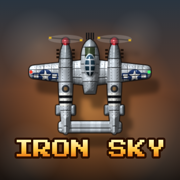
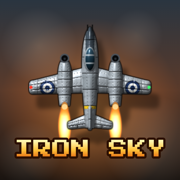
Deploy OPERATION: IRON SKY 2026-11-19

Changed region(s): [[0.1389, 0.1389, 0.8889, 0.7778], [0.5, 0.7778, 0.5833, 0.8333]]

diff --git a/game.js b/game.js
@@ -291,31 +291,55 @@ function mechK(h) {
 function buildSprites() {
   // ── 플레이어 기체 (실사풍 렌더)
   const air = (w, h, o, ang, fn = fighter) => { const K = kit(w, h); fn(K, o); return ang === 'spin' ? spins(K, 16) : finish(K, ang || 0); };
-  {
-    const K = kit(68, 58), o = { c: '#b3bbc2', L: 46, S: 60, spec: .85, var: .36, seed: 2 };
-    wingK(K, o, 60, -5, 13, 3, .5, { rd: 2.6, ribs: 8, lights: 1, paint: g => { for (const s of [-1, 1]) { const x = s * 22, y = -3.2; g.fillStyle = '#e8e8e2'; g.fillRect(x - 6, y - 1.2, 12, 2.4); g.strokeStyle = '#1b315f'; g.lineWidth = .6; g.strokeRect(x - 6, y - 1.2, 12, 2.4); disc(g, x, y, 3.4, '#1b315f'); star5(g, x, y, 3, '#e8e8e2'); } } });
-    part(K, g => rr(g, -15.5, 19, 31, 5.6, 1.6), 1.3, 0, 1.4, o.spec, g => { g.fillStyle = o.c; g.fillRect(-99, -99, 198, 198); const R = mulberry(5); for (let i = 0; i < 6; i++) ptone(g, R, -15.5 + i * 5.2, 0, 5.2, 40, .3); }, v => { v.beginPath(); v.moveTo(-16, 22.5); v.lineTo(16, 22.5); v.stroke(); });
-    for (const s of [-1, 1]) at(K, s * 12, 1.5, () => {
-      bodyK(K, o, 44, 3.9, { nose: '#98a1a8', cowl: .2, inline: 1, tail: .45, bands: [['#e4e4de', .58, .03], ['#16171a', .61, .03], ['#e4e4de', .64, .03], ['#16171a', .67, .03], ['#e4e4de', .7, .03]] });
-      dome(K, 0, 1.5, 1.9, 3.6, 1.2, .6, '#2a2e33', '#7a5c3a');
-      for (const t of [-1, 1]) part(K, g => rr(g, t * 3.7 - 1.1, 9.5, 2.2, 5, .9), 1, .8, 1.8, .6, g => { g.fillStyle = '#8a949c'; g.fillRect(-99, -99, 198, 198); });
-      finK(K, o, 15, 2, 9, '#c2c9cf'); spinnerK(K, Object.assign({}, o, { spin: '#a8202a' }), -21.8, 1.9); over(K, g => propBlur(g, 0, -23, 8.6));
-    });
-    at(K, 0, -8, () => bodyK(K, o, 27, 4.9, { nose: '#98a1a8', cowl: .15, glare: '#39462e', tail: .55, z: 1.2 }));
-    over(K, g => { g.fillStyle = '#121315'; for (const x of [-1.7, -.6, .6, 1.7]) g.fillRect(x - .3, -24.6, .6, 3.4); });
-    canopyK(K, o, -8.5, 3, 5.8, 3, 5); SP.p38 = finish(K);
+  // 현대식 제트기 4종 (A 쌍발 제트 요격기 · B 후퇴익 제트 · C 델타익 요격기 · D 스텔스 다목적기)
+  const jetGlow = (g, x, y, r) => { const q = g.createRadialGradient(x, y, 0, x, y, r * 2.6); q.addColorStop(0, 'rgba(255,250,220,.95)'); q.addColorStop(.35, 'rgba(255,150,40,.7)'); q.addColorStop(1, 'rgba(255,80,20,0)'); g.fillStyle = q; g.beginPath(); g.ellipse(x, y + r * 1.2, r * 1.1, r * 2.6, 0, 0, TAU); g.fill(); disc(g, x, y, r * .75, '#ffd890'); };
+  const coldGlow = (g, x, y, r) => { const q = g.createRadialGradient(x, y, 0, x, y, r * 2.4); q.addColorStop(0, 'rgba(220,240,255,.95)'); q.addColorStop(.4, 'rgba(80,160,255,.6)'); q.addColorStop(1, 'rgba(40,90,255,0)'); g.fillStyle = q; g.beginPath(); g.ellipse(x, y + r, r, r * 2.4, 0, 0, TAU); g.fill(); disc(g, x, y, r * .7, '#bfe4ff'); };
+  const intake = (g, x, y, r) => { disc(g, x, y, r, '#4a5057'); disc(g, x, y, r * .68, '#07080a'); disc(g, x, y + r * .1, r * .25, '#2a2e33'); };
+  { // A. 쌍발 제트 요격기 — 날개 밑 엔진 2기, 은색 무광
+    const K = kit(66, 62), o = { c: '#9ea7ae', L: 50, S: 60, spec: .75, var: .26, seed: 21 };
+    wingK(K, o, 60, 1, 13, 7, .52, { rd: 2.2, ribs: 7, lights: 1, paint: g => { for (const s of [-1, 1]) roundel(g, s * 21, 5.2, 3.6, ['#1b315f', '#e8e8e2', '#1b315f']); } });
+    wingK(K, o, 22, 21, 7, 4, .55, { rd: 1.5, ribs: 2, th: 1.2 });
+    for (const s of [-1, 1]) at(K, s * 12.5, 2, () => bodyK(K, o, 24, 3.6, { tail: .7, nose: '#5a6068', cowl: .1, z: 2.2 }));
+    bodyK(K, o, 50, 4.4, { tail: .45, glare: '#3b4650', bands: [['#d8b020', .78, .03]] });
+    finK(K, o, 14, 1.8, 12, '#8f989f'); canopyK(K, o, -9, 2.8, 6, 2, 5);
+    over(K, g => { for (const s of [-1, 1]) { intake(g, s * 12.5, -9.4, 2.3); jetGlow(g, s * 12.5, 14.5, 1.8); } g.fillStyle = '#111'; for (const x of [-1.2, 1.2]) g.fillRect(x - .3, -26, .6, 3); });
+    SP.p38 = finish(K);
   }
-  SP.spit = air(62, 56, { L: 46, S: 56, c: '#4c5c3c', camo: '#6f5b41', seed: 3, spec: .14, var: .12, bw: 4.8, ell: 1, ch: 17, wy: -4, inline: 1, guns: [.3, .38], mark: ['#1b315f', '#e8e8e2', '#a8202a'], spin: '#c9c3a0', bands: [['#a9b896', .72, .04]], finc: '#8c2a2a', cy: -3, cl: 5.4, cf: 3 });
-  SP.zero = air(62, 54, { L: 44, S: 56, c: '#c4c6b9', spec: .32, var: .14, seed: 4, ch: 15, sw: 1.5, tp: .52, nose: '#15161a', cowl: .17, le: '#d8a818', guns: [.3], mark: ['#e8e8e2', '#a8202a', '#a8202a', '#a8202a', '#a8202a'], spin: '#8a8c88', bands: [['#a8202a', .74, .035]], cl: 6.6, cf: 4, cy: -2.5 });
-  {
-    const K = kit(62, 60), o = { c: '#34503c', camo: '#273d2e', seed: 11, L: 50, S: 56, spec: .2, var: .12 };
-    wingK(K, o, 56, 9, 16, 9, .42, { rd: 2, ribs: 7, lights: 1, le: '#d8a818', paint: g => { for (const s of [-1, 1]) roundel(g, s * 21.5, 14, 3.8, ['#e8e8e2', '#a8202a', '#a8202a', '#a8202a']); } });
-    wingK(K, o, 22, -18.5, 6, 1.5, .55, { rd: 1.5, ribs: 2, th: 1.2 });
-    for (const s of [-1, 1]) at(K, s * 15, 0, () => finK(K, o, 10, 2.6, 14, '#2a4332'));
-    bodyK(K, o, 50, 5.5, { glare: '#131c16', tail: .8, bands: [['#d8b020', .88, .03]] });
-    for (const s of [-1, 1]) part(K, g => { g.beginPath(); g.ellipse(s * 5.6, 7, 1.5, 3.4, 0, 0, TAU); }, 1.2, 2.5, 2.2, .2, g => { g.fillStyle = '#0c110e'; g.fillRect(-99, -99, 198, 198); });
-    over(K, g => { g.fillStyle = '#121315'; for (const x of [-1.8, -.6, .6, 1.8]) g.fillRect(x - .3, -27.6, .6, 3.6); });
-    canopyK(K, o, -5, 3.1, 6.8, 3, 5.4); spinnerK(K, Object.assign({}, o, { spin: '#5a3018' }), 24.6, 2.3); over(K, g => propBlur(g, 0, 26.4, 9.8)); SP.shin = finish(K);
+  { // B. 후퇴익 제트 전투기 — 기수 흡입구, 35° 후퇴익, 노란 띠
+    const K = kit(62, 62), o = { c: '#c9cfd4', L: 54, S: 54, spec: .9, var: .3, seed: 22 };
+    wingK(K, o, 54, 3, 15, 14, .45, { rd: 2, ribs: 6, lights: 1, tipc: '#d8b020', paint: g => { for (const s of [-1, 1]) roundel(g, s * 17, 9, 3.4, ['#1b315f', '#e8e8e2', '#a8202a']); } });
+    wingK(K, o, 22, 21, 7, 6, .5, { rd: 1.4, ribs: 2, th: 1.2, tipc: '#d8b020' });
+    bodyK(K, o, 54, 5.2, { tail: .55, glare: '#2c3238', bands: [['#d8b020', .2, .04], ['#16171a', .25, .02]] });
+    finK(K, o, 13, 1.8, 14, '#b9c0c6'); canopyK(K, o, -12, 2.9, 6.4, 1, 5.6);
+    over(K, g => { intake(g, 0, -24.6, 2.4); jetGlow(g, 0, 27, 2.2); g.fillStyle = '#111'; for (const x of [-2.4, 2.4]) g.fillRect(x - .3, -22.5, .6, 3); });
+    SP.spit = finish(K);
+  }
+  { // C. 델타익 요격기 — 삼각 날개 + 카나드, 측면 흡입구
+    const K = kit(60, 64), o = { c: '#8b939b', L: 56, S: 54, spec: .55, var: .2, seed: 23 };
+    part(K, g => poly(g, [0, -16, 27, 19, 24, 22, 6, 22, -6, 22, -24, 22, -27, 19]), 9, 0, 2.2, o.spec, fillc(o.c, g => {
+      const R = mulberry(9); for (let i = 0; i < 8; i++) ptone(g, R, -27 + i * 6.75, -20, 6.75, 44, .2);
+      for (const s of [-1, 1]) { disc(g, s * 13, 13, 3.6, '#e8e8e2'); disc(g, s * 13, 13, 2.6, '#1b315f'); star5(g, s * 13, 13, 2.2, '#e8e8e2'); }
+      g.fillStyle = 'rgba(0,0,0,.15)'; for (const s of [-1, 1]) { poly(g, [s * 8, 18, s * 22, 18, s * 24, 22, s * 6, 22]); g.fill(); }
+      g.fillStyle = '#d8b020'; for (const s of [-1, 1]) { poly(g, [s * 24.6, 17.2, s * 27, 19, s * 24, 22, s * 23, 21]); g.fill(); }
+    }), v => { for (const s of [-1, 1]) { v.beginPath(); v.moveTo(s * 2, -10); v.lineTo(s * 25, 19.5); v.stroke(); v.beginPath(); v.moveTo(s * 7, 17.5); v.lineTo(s * 23, 17.5); v.stroke(); v.globalAlpha = .4; for (const f of [.3, .55, .8]) { v.beginPath(); v.moveTo(s * 27 * f, -16 + 35 * f); v.lineTo(s * 27 * f, 22); v.stroke(); } v.globalAlpha = 1; } });
+    wingK(K, o, 18, -15, 5, 3, .5, { rd: 1.2, ribs: 1, th: 1 });
+    bodyK(K, o, 56, 4.3, { tail: .7, glare: '#30363c', c: '#7c848c' });
+    for (const s of [-1, 1]) part(K, g => { g.beginPath(); g.ellipse(s * 5.4, -6, 1.8, 4.4, 0, 0, TAU); }, 1.4, 2.4, 2, .3, fillc('#0c0e11'));
+    finK(K, o, 6, 1.6, 18, '#6f777f'); canopyK(K, o, -14, 2.6, 6, 1, 5.4);
+    over(K, g => jetGlow(g, 0, 27.6, 2.3));
+    SP.zero = finish(K);
+  }
+  { // D. 스텔스 다목적기 — 각진 동체, 쌍꼬리날개, 금빛 캐노피, 저시인성 회색
+    const K = kit(62, 66), o = { c: '#5c646d', L: 58, S: 56, spec: .35, var: .1, seed: 24 };
+    const lowvis = g => { const R = mulberry(4); for (let i = 0; i < 10; i++) ptone(g, R, -30 + i * 6, -40, 6, 80, .08); };
+    part(K, g => { g.beginPath(); for (const s of [-1, 1]) { g.moveTo(s * 7, -6); g.lineTo(s * 28, 10); g.lineTo(s * 28, 14.5); g.lineTo(s * 7.5, 13); g.closePath(); } }, 4, 0, 1.6, o.spec, fillc(o.c, g => { lowvis(g); for (const s of [-1, 1]) { g.strokeStyle = 'rgba(160,170,180,.55)'; g.lineWidth = .5; g.beginPath(); g.arc(s * 19, 9, 2.6, 0, TAU); g.stroke(); star5(g, s * 19, 9, 2.1, 'rgba(160,170,180,.55)'); } }), v => { for (const s of [-1, 1]) { v.globalAlpha = .6; v.beginPath(); v.moveTo(s * 9, 1); v.lineTo(s * 27, 13); v.stroke(); v.globalAlpha = 1; } });
+    part(K, g => { g.beginPath(); for (const s of [-1, 1]) { g.moveTo(s * 7.5, 16); g.lineTo(s * 17, 24); g.lineTo(s * 17, 27.5); g.lineTo(s * 7.5, 26); g.closePath(); } }, 2.5, 0, 1.3, o.spec, fillc('#545c64', lowvis));
+    part(K, g => poly(g, [0, -30, 4.5, -20, 7.5, -8, 8.5, 6, 8, 22, 4, 27, -4, 27, -8, 22, -8.5, 6, -7.5, -8, -4.5, -20]), 5, 1.2, 4.2, o.spec, fillc('#606871', g => { lowvis(g); g.fillStyle = 'rgba(0,0,0,.12)'; poly(g, [0, -30, 4.5, -20, 0, -14, -4.5, -20]); g.fill(); }), v => { v.beginPath(); v.moveTo(-6.5, -10); v.lineTo(6.5, -10); v.moveTo(-8, 8); v.lineTo(8, 8); v.moveTo(0, -2); v.lineTo(0, 20); v.stroke(); v.setLineDash([.4, 1]); v.beginPath(); v.moveTo(-5, -4); v.lineTo(-5, 18); v.moveTo(5, -4); v.lineTo(5, 18); v.stroke(); v.setLineDash([]); });
+    for (const s of [-1, 1]) part(K, g => poly(g, [s * 4.6, 10, s * 7.2, 12, s * 7.2, 22, s * 4.6, 23]), 1, 3.8, 3.4, .4, fillc('#4c535b'));
+    for (const s of [-1, 1]) part(K, g => poly(g, [s * 4.5, -11, s * 8, -6, s * 7.6, -3, s * 4.8, -6]), 1, 2.6, 2, .3, fillc('#0c0e11'));
+    part(K, g => { g.beginPath(); g.ellipse(0, -15, 2.6, 6.6, 0, 0, TAU); }, 2.6, 4.6, 2.8, 1, g => { const q = g.createLinearGradient(-3, -21, 3, -9); q.addColorStop(0, '#d9b15a'); q.addColorStop(.45, '#6b4e1e'); q.addColorStop(1, '#21180a'); g.fillStyle = q; g.fillRect(-99, -99, 198, 198); });
+    over(K, g => { for (const s of [-1, 1]) { g.fillStyle = '#1c1f23'; g.fillRect(s * 2.8 - 1.6, 25.5, 3.2, 1.8); coldGlow(g, s * 2.8, 27, 1.5); } });
+    SP.shin = finish(K);
   }
   // ── 적 기체 (선회 각도별로 조명을 다시 계산한 16방향)
   SP.zako = air(38, 36, { L: 28, S: 31, c: '#5f7541', camo: '#42562e', seed: 5, spec: .18, var: .12, nose: '#c9a426', cowl: .16, guns: [.32], mark: ['#e8e8e2', '#a8202a', '#a8202a'], tailc: '#c9a426' }, 'spin');
@@ -531,13 +555,13 @@ function buildClouds() {
 
 // ───────────────────────── 기체 정의
 const PLANES = [
-  { name: 'P-38 LIGHTNING', spr: 'p38', speed: 4.2, dmg: 1, sub: 'homing', chg: 'lance', bomb: 'carpet', shot: 'pshot', ko: ['유도 미사일', '관통 랜스', '융단 폭격'],
+  { name: 'TWIN COMET', spr: 'p38', exh: [[-12.5, 15], [12.5, 15]], speed: 4.2, dmg: 1, sub: 'homing', chg: 'lance', bomb: 'carpet', shot: 'pshot', ko: ['유도 미사일', '관통 랜스', '융단 폭격'],
     shots: [[[-5, 0], [5, 0]], [[-10, 0], [0, 0], [10, 0]], [[-15, 0], [-5, 0], [5, 0], [15, 0]], [[-15, 0], [-5, 0], [5, 0], [15, 0], [-19, -.14], [19, .14]]] },
-  { name: 'SPITFIRE', spr: 'spit', speed: 3.9, dmg: 1.25, sub: 'rocket', chg: 'fireball', bomb: 'pillar', shot: 'pshot', ko: ['직진 로켓', '대형 화염탄', '섬광 기둥'],
+  { name: 'ARROWHEAD', spr: 'spit', exh: [[0, 27]], speed: 3.9, dmg: 1.25, sub: 'rocket', chg: 'fireball', bomb: 'pillar', shot: 'pshot', ko: ['직진 로켓', '대형 화염탄', '섬광 기둥'],
     shots: [[[-4, 0], [4, 0]], [[-8, 0], [0, 0], [8, 0]], [[-12, 0], [-4, 0], [4, 0], [12, 0]], [[-16, 0], [-8, 0], [0, 0], [8, 0], [16, 0]]] },
-  { name: 'ZERO FIGHTER', spr: 'zero', speed: 4.7, dmg: .9, sub: 'side', chg: 'wingmen', bomb: 'carpet', shot: 'pshotB', ko: ['확산 측면탄', '편대 호위기', '융단 폭격'],
+  { name: 'DELTA LANCE', spr: 'zero', exh: [[0, 28]], speed: 4.7, dmg: .9, sub: 'side', chg: 'wingmen', bomb: 'carpet', shot: 'pshotB', ko: ['확산 측면탄', '편대 호위기', '융단 폭격'],
     shots: [[[-5, 0], [5, 0]], [[-5, 0], [5, 0], [-9, -.16], [9, .16]], [[-5, 0], [5, 0], [-9, -.16], [9, .16], [-12, -.32], [12, .32]], [[-8, 0], [0, 0], [8, 0], [-10, -.16], [10, .16], [-13, -.32], [13, .32]]] },
-  { name: 'SHINDEN', spr: 'shin', speed: 3.6, dmg: 1.5, sub: 'blade', chg: 'wave', bomb: 'pillar', shot: 'pshotB', ko: ['관통 칼날', '초승달 파동', '섬광 기둥'],
+  { name: 'SHADOW FALCON', spr: 'shin', exh: [[-2.8, 26], [2.8, 26]], speed: 3.6, dmg: 1.5, sub: 'blade', chg: 'wave', bomb: 'pillar', shot: 'pshotB', ko: ['관통 칼날', '초승달 파동', '섬광 기둥'],
     shots: [[[-4, 0], [4, 0]], [[-7, 0], [0, 0], [7, 0]], [[-10, 0], [-3.5, 0], [3.5, 0], [10, 0]], [[-13, 0], [-6.5, 0], [0, 0], [6.5, 0], [13, 0]]] },
 ];
 
@@ -939,7 +963,7 @@ function drawPlay() {
   if (vis) {
     if (P.wing > 0 && (P.wing > 50 || frame % 4 < 2)) for (const s of [-1, 1]) draw(ps, P.x + s * 36, P.y + 10, 0, .62);
     ctx.globalCompositeOperation = 'lighter'; const fl = .7 + Math.random() * .6;
-    for (const ex of (PL.spr === 'p38' ? [-12, 12] : [0])) draw(SP.flame, P.x + ex, P.y + 24 + 7 * fl, 0, fl);
+    for (const [ex, ey] of PL.exh) draw(SP.flame, P.x + ex, P.y + ey + 7 * fl, 0, fl * (PL.exh.length > 1 ? .8 : 1));
     if (P.mz > 0) { P.mz--; for (const [dx] of PL.shots[P.pw]) draw(SP.fxFlash, P.x + dx, P.y - 25, 0, .16 + Math.random() * .14); }
     ctx.globalCompositeOperation = 'source-over';
     draw(ps, P.x, P.y, 0, 1, 1 - Math.abs(P.bank) * .22);
@@ -1064,6 +1088,6 @@ function tick(t) {
 buildSprites(); CLOUD = buildClouds(); CLOUDSH = tint(CLOUD, '#000'); BG[0] = buildBG(0);
 if (STORY) STORY.init({ ctx, drawBG, SFX });
 // 디버그/테스트용 훅
-window.__sky = { SP, SFX, get ac() { return AC && AC.state; }, get s() { return { state, stage, loop, score, lives, phase, st, enemies: enemies.length, eb: eb.length, pb: pb.length, pw: P && P.pw, boss: boss && { ph: boss.ph, st: boss.st, hp: boss.hp } }; }, god: v => god = v, get p() { return P && { x: P.x | 0, y: P.y | 0, alive: P.alive, enter: P.enter, inv: P.inv, dead: P.dead }; }, get pt() { return pt; }, get story() { return STORY; }, storyTest: (mode, n) => { stage = n || 0; P = newPlayer(P); startStage(); enterStory(mode); }, clear: () => { phase = 'clear'; pt = 320; boss = null; }, skip: () => { st = 4490; ev = []; }, stage: n => { stage = n; startStage(); }, pw: n => P.pw = n, step: n => { for (let i = 0; i < n; i++) update(); }, hurtBoss: d => boss && hurt(boss, d) };
+window.__sky = { SP, SFX, get R() { return { kit, part, over, at, finish, spins, wingK, bodyK, finK, canopyK, dome, spinnerK, propBlur, poly, rr, disc, roundel, star5, mulberry, ptone, wingPath, bodyPath, fighter, bx }; }, get ac() { return AC && AC.state; }, get s() { return { state, stage, loop, score, lives, phase, st, enemies: enemies.length, eb: eb.length, pb: pb.length, pw: P && P.pw, boss: boss && { ph: boss.ph, st: boss.st, hp: boss.hp } }; }, god: v => god = v, get p() { return P && { x: P.x | 0, y: P.y | 0, alive: P.alive, enter: P.enter, inv: P.inv, dead: P.dead }; }, get pt() { return pt; }, get story() { return STORY; }, storyTest: (mode, n) => { stage = n || 0; P = newPlayer(P); startStage(); enterStory(mode); }, clear: () => { phase = 'clear'; pt = 320; boss = null; }, skip: () => { st = 4490; ev = []; }, stage: n => { stage = n; startStage(); }, pw: n => P.pw = n, step: n => { for (let i = 0; i < n; i++) update(); }, hurtBoss: d => boss && hurt(boss, d) };
 requestAnimationFrame(tick);
 })();

diff --git a/sound.js b/sound.js
@@ -131,6 +131,34 @@ function engineLoop(seed, fe = 36, len = 2, sr = S32) {
   }
   return norm(loopify([L, R], sr, F), .8);
 }
+// 제트 엔진: 터빈 고음 + 배기 굉음 (반복 루프)
+function jetLoop(seed, len = 2.5, sr = S32) {
+  const F = .4, d = len + F, L = buf(d, sr), R = buf(d, sr), n = L.length, r = rng(seed), wob = vnoise(r, 3, sr, n);
+  const rl = new BQ('lp', 1600, .6, sr), rr2 = new BQ('lp', 1700, .6, sr), bl = new BQ('bp', 380, .8, sr), br = new BQ('bp', 420, .8, sr), hl = new BQ('bp', 5200, 1.5, sr);
+  let p1 = 0, p2 = 0, pl = 0, pr = 0;
+  for (let i = 0; i < n; i++) {
+    const t = i / sr, wl = r() * 2 - 1, wr = r() * 2 - 1, wb = 1 + (wob(i) - .5) * .006;
+    pl = (pl + .05 * wl) / 1.05; pr = (pr + .05 * wr) / 1.05;
+    p1 += 1150 * wb / sr; p2 += 2310 * wb / sr;
+    const whine = Math.sin(TAU * p1) * .1 + Math.sin(TAU * p2) * .05 + Math.sin(TAU * p1 * 3.02) * .02;
+    const roarL = rl.p(pl) * 2.2 + bl.p(wl) * .5, roarR = rr2.p(pr) * 2.2 + br.p(wr) * .5;
+    L[i] = roarL + whine + hl.p(wl) * .05; R[i] = roarR + whine * .9 + hl.p(wr) * .05;
+  }
+  return norm(loopify([L, R], sr, F), .8);
+}
+// 제트 시동: 터빈이 돌기 시작해 점화되며 굉음이 커짐
+function jetStart(seed) {
+  const sr = S32, d = 2.6, L = buf(d, sr), R = buf(d, sr), r = rng(seed), lp = new BQ('lp', 300, .6, sr), bp = new BQ('bp', 400, .8, sr);
+  let ph = 0, pk = 0;
+  for (let i = 0; i < L.length; i++) {
+    const t = i / sr, k = Math.min(1, t / 1.8), f = 180 + 970 * (1 - (1 - k) ** 2), w = r() * 2 - 1; ph += f / sr; pk = (pk + .05 * w) / 1.05;
+    if ((i & 63) === 0) lp.set(300 + 1500 * Math.max(0, (t - .7) / 1.4));
+    const ign = t > .75 ? Math.min(1, (t - .75) / .5) : 0, boom = t > .75 && t < .9 ? Math.exp(-(t - .75) / .04) * .6 : 0;
+    const x = (Math.sin(TAU * ph) * .3 + Math.sin(TAU * 2 * ph) * .12) * Math.min(1, t / .2) + (lp.p(pk) * 2.4 + bp.p(w) * .4) * ign + boom * w;
+    L[i] = R[i] = x * Math.min(1, (d - t) / .5);
+  }
+  reverb(L, R, sr, .2, .8, .5); return norm([L, R], .85);
+}
 // 적기 통과음 (도플러로 음높이가 높았다가 낮아짐)
 function flyby(seed) {
   const sr = S32, d = 3.4, L = buf(d, sr), R = buf(d, sr), r = rng(seed), lp = new BQ('lp', 900, .7, sr), wh = new BQ('bp', 900, .7, sr), pl = new BQ('lp', 600, .7, sr);
@@ -302,6 +330,7 @@ const DEFS = {
   tink: [41, 42, 43].map(s => () => tink(s, 0)).concat([() => tink(44, 1)]),
   clank: [51, 52].map(s => () => clank(s)),
   engine: [() => engineLoop(61, 36, 2)],
+  jet: [() => jetLoop(62)], jstart: [() => jetStart(63)],
   flyby: [71, 72].map(s => () => flyby(s)),
   siren: [() => siren()],
   drone: [() => heavyDrone(81)],
@@ -318,11 +347,11 @@ const DEFS = {
   i_brass: [() => brass(201)], i_strings: [() => strings(202)], i_cello: [() => cello(203)], i_timp: [() => timpani(204)],
   i_snare: [205, 206, 207].map(s => () => snare(s)), i_bd: [() => bassDrum(208)], i_cym: [() => cymbal(209)],
 };
-const SRATE = { engine: S32, flyby: S32, siren: S32, drone: S32, start: S32, spin: S32, dive: S32, thunder: S22, rOn: S22, rOff: S22, rStatic: S22, i_brass: S32, i_strings: S32, i_cello: S32, i_timp: S32, i_bd: S32, i_cym: S32 };
+const SRATE = { engine: S32, jet: S32, jstart: S32, flyby: S32, siren: S32, drone: S32, start: S32, spin: S32, dive: S32, thunder: S22, rOn: S22, rOff: S22, rStatic: S22, i_brass: S32, i_strings: S32, i_cello: S32, i_timp: S32, i_bd: S32, i_cym: S32 };
 const RAW = {}; // 이름 → [[L,R], ...]
 let rendered = false;
 // 로딩 직후 백그라운드에서 조금씩 렌더 (화면이 멈추지 않게)
-const order = ['sw', 'i_brass', 'i_strings', 'i_cello', 'i_timp', 'i_snare', 'i_cym', 'amb_ocean', 'gun', 'boomS', 'tink', 'egun', 'boomM', 'engine', 'rOn', 'rOff', 'type', 'ping', 'start', 'i_bd', 'boomL', 'clank', 'cannon', 'siren', 'drone', 'flyby', 'whoosh', 'spin', 'dive', 'shimmer', 'coin', 'coin2', 'rStatic', 'amb_desert', 'amb_arctic', 'amb_storm', 'amb_fortress', 'thunder'];
+const order = ['sw', 'i_brass', 'i_strings', 'i_cello', 'i_timp', 'i_snare', 'i_cym', 'amb_ocean', 'gun', 'boomS', 'tink', 'egun', 'boomM', 'jet', 'jstart', 'rOn', 'rOff', 'type', 'ping', 'i_bd', 'boomL', 'clank', 'cannon', 'siren', 'drone', 'flyby', 'whoosh', 'spin', 'dive', 'shimmer', 'coin', 'coin2', 'rStatic', 'amb_desert', 'amb_arctic', 'amb_storm', 'amb_fortress', 'thunder'];
 const queue = []; for (const k of order) DEFS[k].forEach((f, i) => queue.push([k, i, f]));
 function pump() {
   const t0 = performance.now();
@@ -419,7 +448,7 @@ const SFX = {
   cancel: () => play('shimmer', { vol: .35 }),
   ok: () => { play('sw', { vol: .6 }); play('ping', { vol: .18, rate: 1.5 }); },
   sel: () => play('sw', { vol: .45, jit: .1 }),
-  start: () => { play('start', { vol: .8, jit: 0 }); play('sw', { vol: .6 }); },
+  start: () => { play('jstart', { vol: .75, jit: 0 }); play('sw', { vol: .6 }); },
   ext: () => { fanfare([[72, 0, .16], [76, .16, .16], [79, .32, .16], [84, .48, .7]], .5); play('ping', { vol: .3, rate: 1.5, when: .48 }); },
   clear: () => { fanfare([[72, 0, .14], [72, .16, .14], [72, .32, .14], [76, .48, .3], [79, .8, .3], [76, 1.12, .14], [79, 1.28, .14], [84, 1.44, 1.3]], .55); inst('i_timp', 36, 1.44, 1.6, .5); inst('i_cym', 60, 1.44, 2.5, .3); [60, 64, 67].forEach(n => inst('i_strings', n, 1.44, 2.2, .2)); },
   over: () => { [[64, 0, .5], [60, .5, .5], [57, 1, .5], [53, 1.5, .5], [52, 2, 2]].forEach(([n, t, d]) => { inst('i_brass', n - 12, t, d, .4); inst('i_cello', n - 24, t, d, .4); }); [40, 47, 52].forEach(n => inst('i_strings', n, 2, 2.4, .2)); inst('i_timp', 28, 2, 2.2, .5); },
@@ -509,8 +538,8 @@ function tick(o) {
   if (!AC || (++tickN % 4)) return;
   const t = AC.currentTime; LP.x = o.px; LP.y = o.py;
   // 플레이어 엔진: 위로 가속하면 회전수 상승
-  if (!engV && BUF.engine) { engV = play('engine', { bus: engBus, loop: true, jit: 0, vol: 1 }); }
-  if (engV) { engBus.gain.setTargetAtTime(o.playing && !muted ? .32 : 0, t, .3); engV.s.playbackRate.setTargetAtTime(1 + o.throttle * .07, t, .25); }
+  if (!engV && BUF.jet) { engV = play('jet', { bus: engBus, loop: true, jit: 0, vol: 1 }); }
+  if (engV) { engBus.gain.setTargetAtTime(o.playing && !muted ? .32 : 0, t, .3); engV.s.playbackRate.setTargetAtTime(1 + o.throttle * .05, t, .3); }
   const want = o.state === 'title' || o.state === 'select' ? 'amb_ocean' : AMB[o.bg] || 'amb_ocean';
   setAmb(want, o.state === 'play' ? .55 : o.state === 'story' ? .35 : .3);
   // 전장 분위기: 먼 폭발, 대서양 천둥
